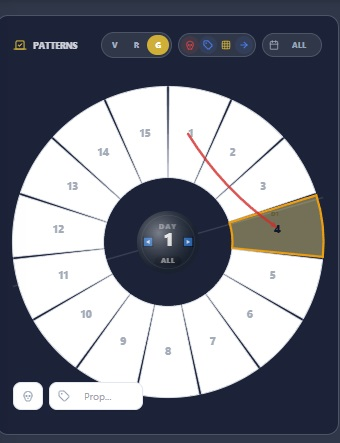
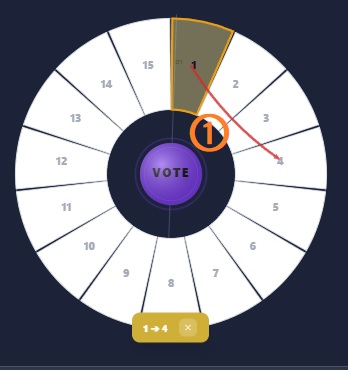
update how2use

diff --git a/src/components/popitems/popups/GreetingPopup.tsx b/src/components/popitems/popups/GreetingPopup.tsx
@@ -36,37 +36,41 @@ const GreetingPopup: React.FC<GreetingPopupProps> = ({ isOpen, onClose }) => {
       title: "1. Player Notes",
       icon: <Users size={16} className="text-blue-500" />,
       images: ["/how2use/screen-1.jpg"],
-      content: "Tap any player in the top Player Hub to record social reads and role claims in their private notepad. This keeps your data organized per player."
+      content: "Tap any player in the top Player Hub❶ to record social reads and role claims in their private notepad❷. This keeps your data organized per player."
     },
     {
       title: "2. The Nomination Flow",
       icon: <Zap size={16} className="text-yellow-500" />,
       images: ["/how2use/screen-2.0.jpg", "/how2use/screen-2.1.jpg", "/how2use/screen-2.2.jpg"],
-      content: "Slide from Nominee to Target on the clock to create a link. Verify the details on the pending badge, then enter Voting Mode (center ball) to toggle voter status."
+      content: "Slide from Nominee to Target on the clock to create a link❶. Verify the details on the pending badge❷, then enter Voting Mode (center ball) to toggle voter status."
     },
     {
       title: "3. Quick Assignment",
       icon: <Skull size={16} className="text-red-500" />,
       images: ["/how2use/screen-3.jpg"],
-      content: "Toggle Death or Property mode in the controls, then tap clock slices to execute or tag players. Swipe the center sphere left or right to change the current game day."
+      content: "Toggle Death or Property mode in the controls❶, then tap clock slices to execute or tag players. Swipe the center sphere left or right to change the current game day❷."
     },
     {
       title: "4. Pattern Review",
       icon: <Search size={16} className="text-indigo-500" />,
       images: ["/how2use/screen-4.jpg"],
-      content: "Use V/R/G modes on the clock to visualize voting patterns. See who voted for whom, who receives the most heat, and global trends at a glance."
-    },
+      content: `V/R/G modes on the clock to visualize voting patterns. See who voted for whom, who receives the most heat, and global trends at a glance❶.
+      Able/disable layers❷.
+      Rotate to filter day❸.`    },
     {
       title: "5. Full Ledgers",
       icon: <BookOpen size={16} className="text-emerald-500" />,
-      images: ["/how2use/screen-5.jpg", "/how2use/screen-5.1.jpg"],
-      content: "Open the Full Ledger for high-density tables tracking every nomination, vote count, and player status history in a traditional monospaced format."
+      images: ["/how2use/screen-5.2.jpg", "/how2use/screen-5.3.jpg", "/how2use/screen-5.4.jpg"],
+      content: "Open the Full Ledger for tables tracking player recorded from notepad, every nomination and Role table (set player number here)."
     },
     {
       title: "6. Script Setup",
       icon: <Edit3 size={16} className="text-slate-400" />,
       images: ["/how2use/screen-6.jpg"],
-      content: "Found in the Sidebar: Use 'Load Role' to quickly paste your character list. This populates the role keyword selector for easy note-taking during the game."
+      content: `Found in the Sidebar: 
+      'Load Role': to quickly paste your character list. This populates the role keyword selector for easy note-taking during the game.
+      'Reset Session': Reset the game record.
+      'Setting': Game UI settings.`
     }
   ];
 
